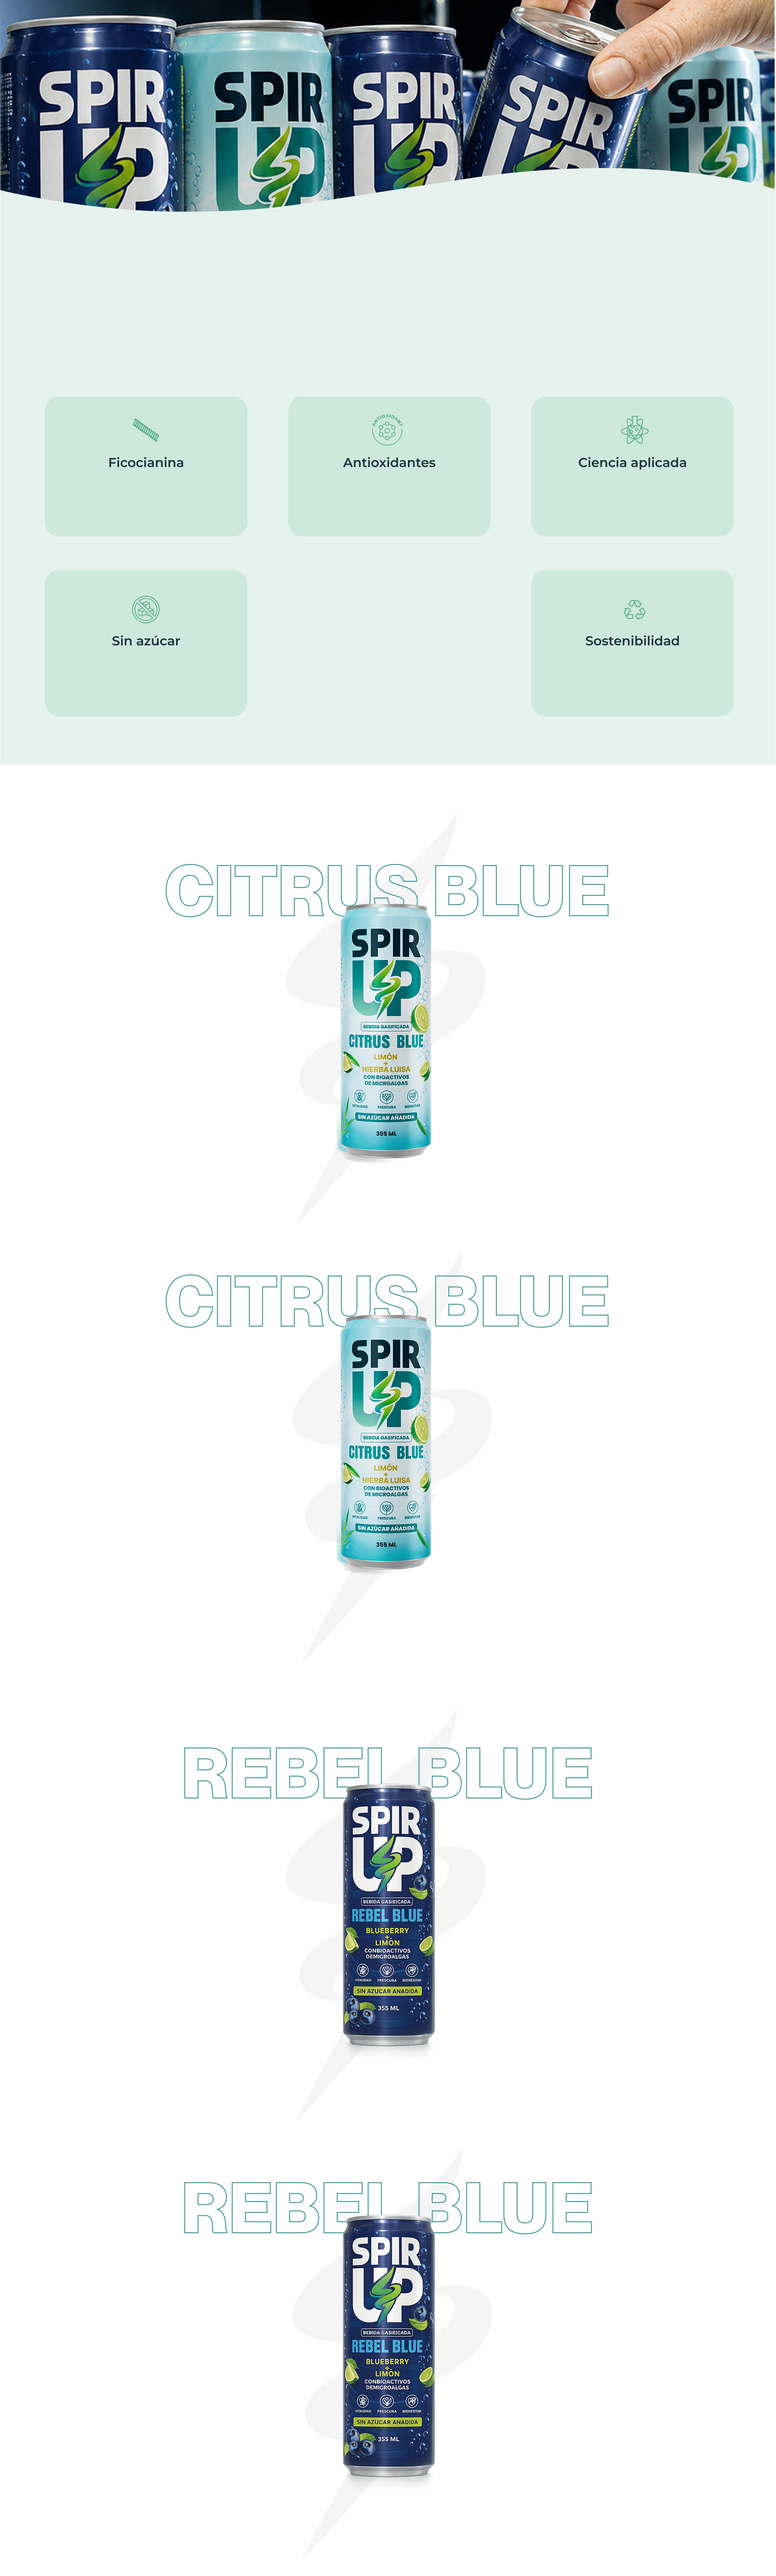
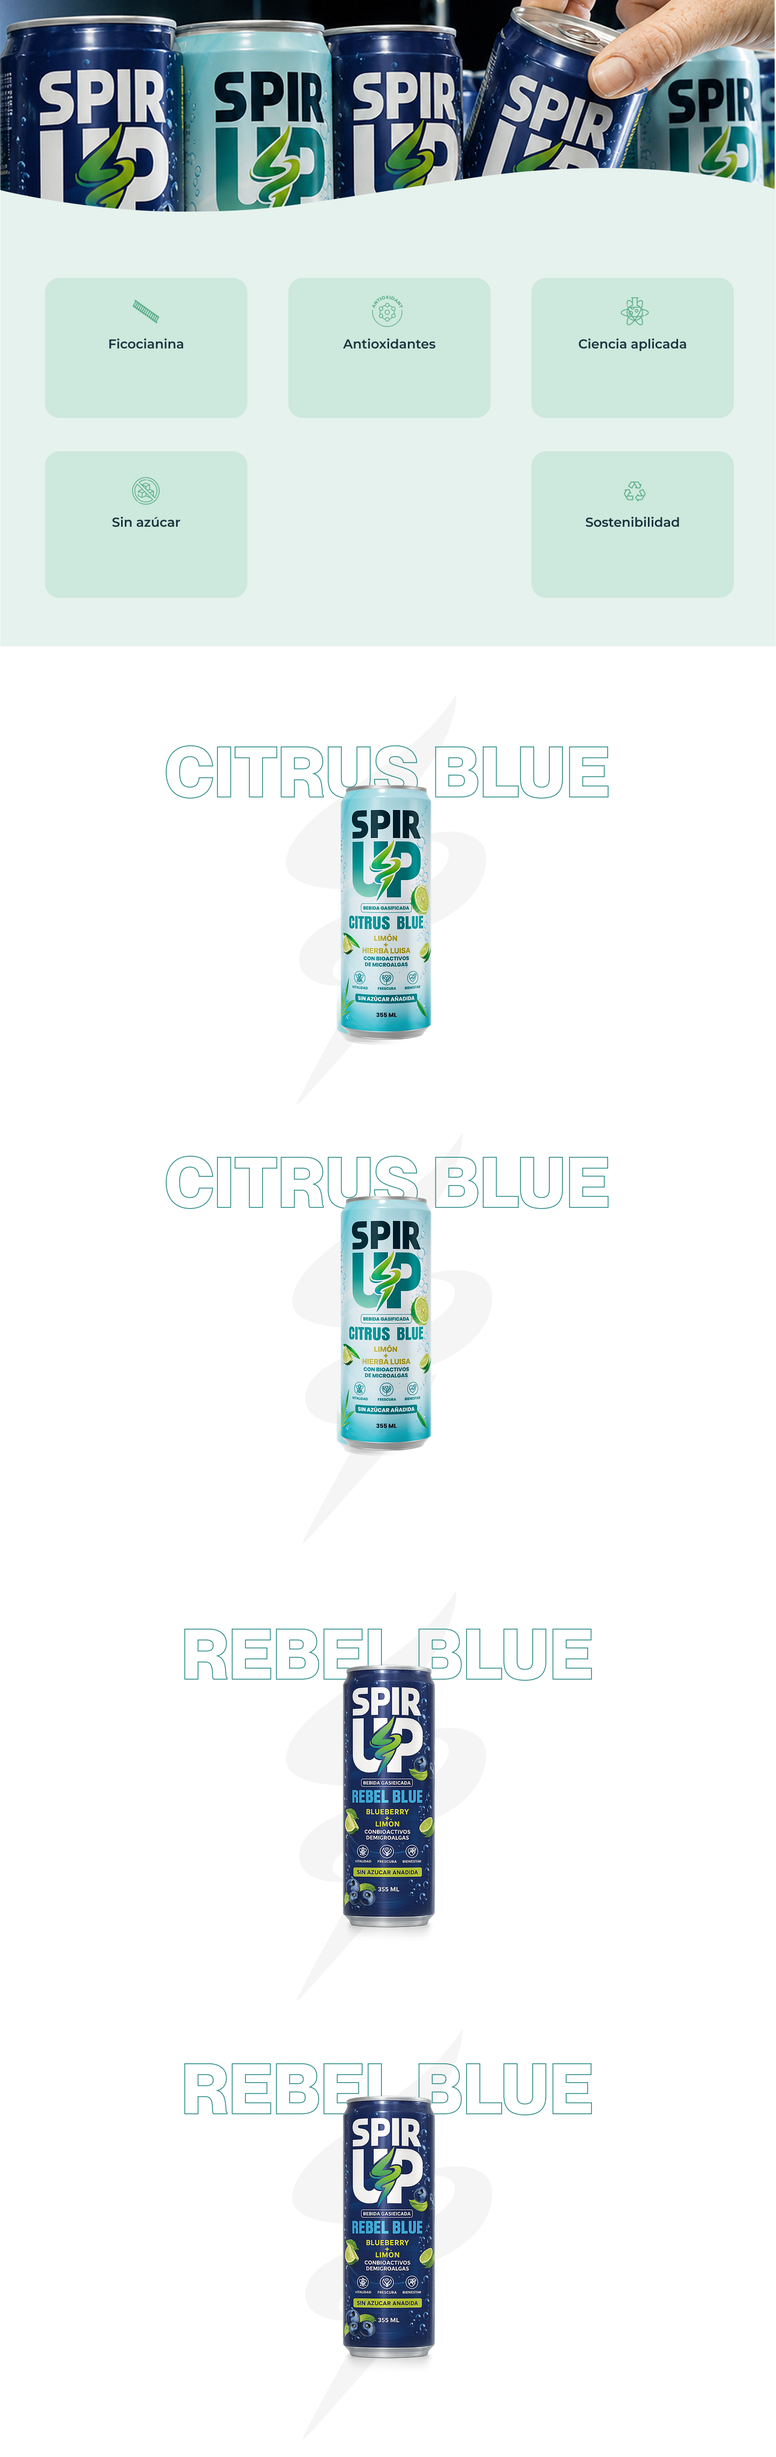
Producto: recortar banda mint vacia de la imagen (titulo compacto, sin hueco a pantalla completa) y reubicar overlays

diff --git a/wp-content/themes/astra-child/page-producto.php b/wp-content/themes/astra-child/page-producto.php
@@ -25,13 +25,13 @@ $benef2 = array(
 	array( 81.5, 'Pensada para ti y el planeta.' ),
 );
 
-/* Paneles de producto: y = centro vertical de la lata (% de la imagen).
+/* Paneles de producto: y = centro vertical de la lata (% de la imagen recortada 4562px).
    Los <br> fijan los mismos quiebres de linea que el diseno. */
 $panels = array(
-	array( 'flavor' => 'citrus', 'type' => 'intro',   'y' => 40.0, 'extractos' => '' ),
-	array( 'flavor' => 'citrus', 'type' => 'details', 'y' => 56.0, 'extractos' => 'El poder de la<br>naturaleza&nbsp; en el<br>limón y la hierba&nbsp; luisa' ),
-	array( 'flavor' => 'rebel',  'type' => 'intro',   'y' => 74.0, 'extractos' => '' ),
-	array( 'flavor' => 'rebel',  'type' => 'details', 'y' => 91.5, 'extractos' => 'El poder de la<br>naturaleza&nbsp; en el<br>blueberry y el limón' ),
+	array( 'flavor' => 'citrus', 'type' => 'intro',   'y' => 37.1, 'extractos' => '' ),
+	array( 'flavor' => 'citrus', 'type' => 'details', 'y' => 53.9, 'extractos' => 'El poder de la<br>naturaleza&nbsp; en el<br>limón y la hierba&nbsp; luisa' ),
+	array( 'flavor' => 'rebel',  'type' => 'intro',   'y' => 72.8, 'extractos' => '' ),
+	array( 'flavor' => 'rebel',  'type' => 'details', 'y' => 91.1, 'extractos' => 'El poder de la<br>naturaleza&nbsp; en el<br>blueberry y el limón' ),
 );
 
 get_header();
@@ -43,19 +43,19 @@ get_header();
 			<img class="spirup-prodimg__bg" src="<?php echo esc_url( $img . '/Group 49 (1).png' ); ?>" alt="Sabores Spir Up Citrus Blue y Rebel Blue">
 
 			<?php /* Anclas para los botones "Explora nuestros sabores" */ ?>
-			<span id="citrus" class="ov-anchor" style="top:30%;"></span>
-			<span id="rebel" class="ov-anchor" style="top:64%;"></span>
+			<span id="citrus" class="ov-anchor" style="top:26.6%;"></span>
+			<span id="rebel" class="ov-anchor" style="top:62.3%;"></span>
 
 			<?php /* --- Beneficios: titulo + descripciones --- */ ?>
-			<div class="ov ov-cabecera" style="top:9.6%;left:50%;">
+			<div class="ov ov-cabecera" style="top:9.8%;left:50%;">
 				<h2 class="ov-title">Refrescante por naturaleza.<br>Respaldada por la ciencia.</h2>
 				<p class="ov-sub">No te pedimos que dejes de tomar café o gaseosa. Solo que pruebes una alternativa que te da más y te quita menos.</p>
 			</div>
 			<?php foreach ( $benef as $b ) : ?>
-				<p class="ov ov-benefdesc" style="top:20.4%;left:<?php echo esc_attr( $b[0] ); ?>%;"><?php echo esc_html( $b[1] ); ?></p>
+				<p class="ov ov-benefdesc" style="top:16.6%;left:<?php echo esc_attr( $b[0] ); ?>%;"><?php echo esc_html( $b[1] ); ?></p>
 			<?php endforeach; ?>
 			<?php foreach ( $benef2 as $b ) : ?>
-				<p class="ov ov-benefdesc" style="top:26.6%;left:<?php echo esc_attr( $b[0] ); ?>%;"><?php echo esc_html( $b[1] ); ?></p>
+				<p class="ov ov-benefdesc" style="top:23.1%;left:<?php echo esc_attr( $b[0] ); ?>%;"><?php echo esc_html( $b[1] ); ?></p>
 			<?php endforeach; ?>
 
 			<?php /* --- Paneles de producto --- */ ?>
@@ -64,29 +64,29 @@ get_header();
 				$acc = 'citrus' === $p['flavor'] ? 'is-citrus' : 'is-rebel';
 				if ( 'intro' === $p['type'] ) : ?>
 					<?php /* Izq: descripcion (debajo del watermark) */ ?>
-					<div class="ov ov-block <?php echo $acc; ?>" style="top:<?php echo esc_attr( $y - 0.5 ); ?>%;left:5.5%;">
+					<div class="ov ov-block <?php echo $acc; ?>" style="top:<?php echo esc_attr( $y - 0.52 ); ?>%;left:5.5%;">
 						<strong class="ov-h">Bebida<br>carbonatada<br>sin&nbsp;azúcar con<br>ficocianina</strong>
 						<span class="ov-p">un potente<br>compuesto&nbsp; bioactivo<br>con&nbsp; propiedades<br>antioxidantes y<br>antiinflamatorias.</span>
 					</div>
 					<?php /* Der: explora (debajo del watermark) */ ?>
-					<div class="ov ov-block <?php echo $acc; ?>" style="top:<?php echo esc_attr( $y - 0.5 ); ?>%;left:70%;">
+					<div class="ov ov-block <?php echo $acc; ?>" style="top:<?php echo esc_attr( $y - 0.52 ); ?>%;left:70%;">
 						<span class="ov-lbl">Explora nuestros<br>sabores</span>
 						<a class="ov-tab<?php echo 'rebel' === $p['flavor'] ? ' is-on' : ''; ?>" href="#rebel">Rebel Blue</a>
 						<a class="ov-tab<?php echo 'citrus' === $p['flavor'] ? ' is-on' : ''; ?>" href="#citrus">Citrus Blue</a>
 					</div>
 				<?php else : ?>
 					<?php /* Izq: 2 atributos */ ?>
-					<div class="ov ov-block <?php echo $acc; ?>" style="top:<?php echo esc_attr( $y - 4.6 ); ?>%;left:5.5%;">
+					<div class="ov ov-block <?php echo $acc; ?>" style="top:<?php echo esc_attr( $y - 4.82 ); ?>%;left:5.5%;">
 						<strong class="ov-h">Agua gasificada</strong><span class="ov-p">Frescura que se<br>siente.</span>
 					</div>
-					<div class="ov ov-block <?php echo $acc; ?>" style="top:<?php echo esc_attr( $y + 3.4 ); ?>%;left:5.5%;">
+					<div class="ov ov-block <?php echo $acc; ?>" style="top:<?php echo esc_attr( $y + 3.56 ); ?>%;left:5.5%;">
 						<strong class="ov-h">Ficocianina</strong><span class="ov-p">Antioxidantes de<br>origen&nbsp; natural.</span>
 					</div>
 					<?php /* Der: 2 atributos (Vitamina C en naranja) */ ?>
-					<div class="ov ov-block <?php echo $acc; ?>" style="top:<?php echo esc_attr( $y - 4.6 ); ?>%;left:70%;">
+					<div class="ov ov-block <?php echo $acc; ?>" style="top:<?php echo esc_attr( $y - 4.82 ); ?>%;left:70%;">
 						<strong class="ov-h">Extractos naturales</strong><span class="ov-p"><?php echo wp_kses( $p['extractos'], array( 'br' => array() ) ); ?></span>
 					</div>
-					<div class="ov ov-block ov-vitc <?php echo $acc; ?>" style="top:<?php echo esc_attr( $y + 3.4 ); ?>%;left:70%;">
+					<div class="ov ov-block ov-vitc <?php echo $acc; ?>" style="top:<?php echo esc_attr( $y + 3.56 ); ?>%;left:70%;">
 						<strong class="ov-h">Vitamina C</strong><span class="ov-p">Soporte para tus<br>defensas</span>
 					</div>
 				<?php endif; ?>
